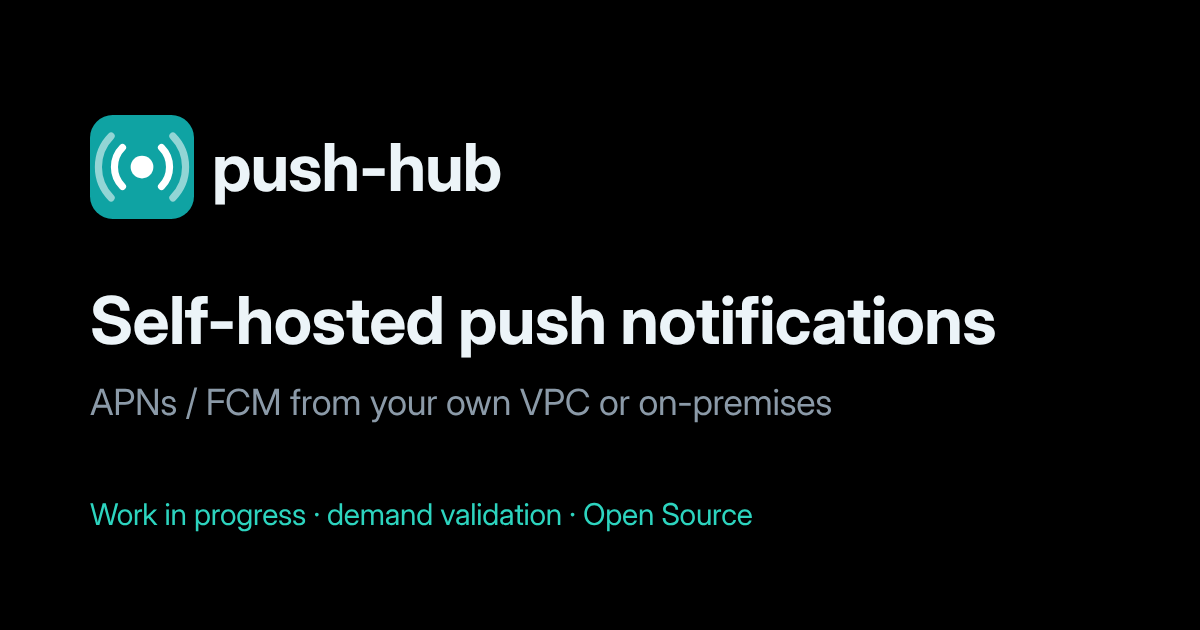
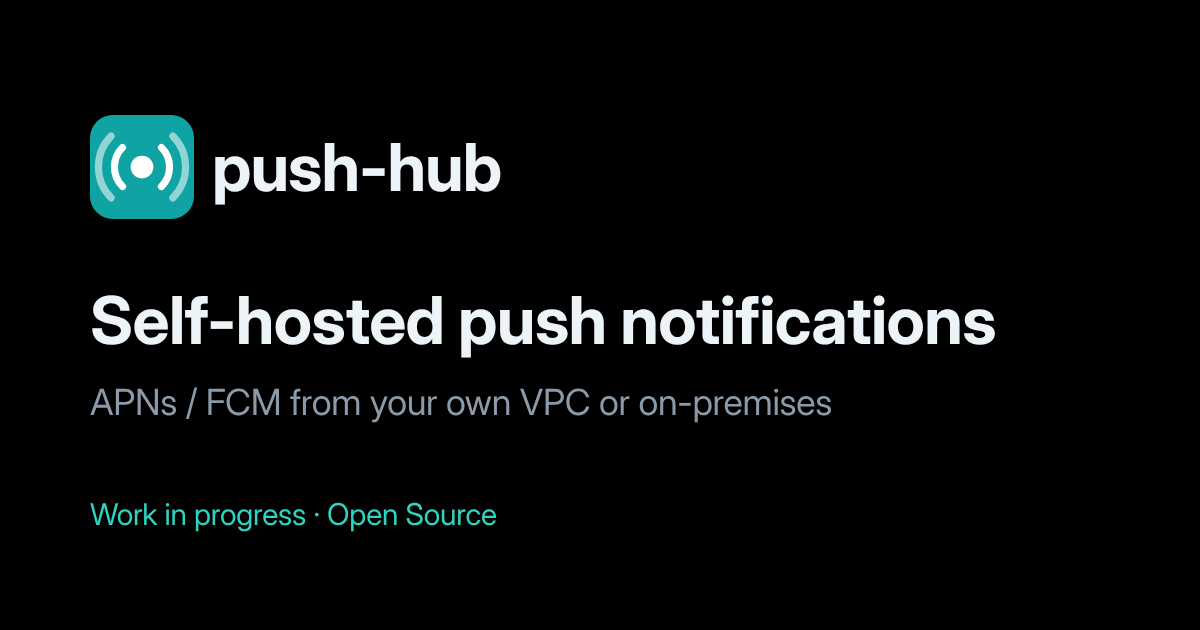
docs: build first, drop the survey and demand-validation wording
Remove the survey from the README and both landing pages and keep
the GitHub star as the only call to action. Replace the "Demand
Validation First" approach in the PRD and ARCHITECTURE with building
a minimal version first, and update the status badge and the social
preview image.

Claude-Session: https://claude.ai/code/session_01FAZyE7x5DZY6sv37JpwjM2

Changed region(s): [[0.2775, 0.7841, 0.6475, 0.8444]]

diff --git a/lp/ja/index.html b/lp/ja/index.html
@@ -41,12 +41,11 @@
 
   <main id="top">
     <div class="container hero">
-      <p class="badge"><span class="dot" aria-hidden="true"></span>開発中 · 需要検証フェーズ · オープンソース</p>
+      <p class="badge"><span class="dot" aria-hidden="true"></span>開発中 · オープンソース</p>
       <h1>プッシュ通知のデータを、自社インフラの外に出さない。</h1>
       <p class="lead">push-hub は企業向けのセルフホスト型プッシュ通知配信エンジンです。自社の VPC やオンプレミスにデプロイし、データを SaaS 事業者に渡さずに APNs / FCM 通知を送信できます。</p>
       <div class="cta">
         <a class="btn btn-primary" href="https://github.com/aianchor-lab/push-hub">⭐ GitHub で Star する</a>
-        <a class="btn" href="https://docs.google.com/forms/d/e/1FAIpQLScaWnj02ZwheyQqbRJ1FOz39VrACn_9ItWhEOD-ZxtPUcXEgg/viewform?usp=dialog">📝 3分アンケートに回答する</a>
       </div>
     </div>
 
@@ -218,8 +217,8 @@ $ curl http://localhost:8080/healthz
     <section id="support" class="final" aria-labelledby="support-title">
       <div class="container">
         <p class="eyebrow">プロジェクトを応援する</p>
-        <h2 id="support-title">作るかどうかは、あなたに必要とされるかどうかで決まります。</h2>
-        <p class="section-lead">特に、次のようなチームの声を聞きたいと考えています。</p>
+        <h2 id="support-title">必要だと感じたら、Star で教えてください。</h2>
+        <p class="section-lead">push-hub は開発中です。Star の数は、どれだけのチームに必要とされているかを知る手がかりになります。Star すると進捗も追えます。次のようなチームのために作っています。</p>
         <ul>
           <li>コンプライアンスや契約上の理由で、顧客データやデバイストークンをプッシュ SaaS に送れない</li>
           <li>配信数が増えるほどプッシュ SaaS の利用料が高額になっている</li>
@@ -227,9 +226,7 @@ $ curl http://localhost:8080/healthz
         </ul>
         <div class="cta">
           <a class="btn btn-primary" href="https://github.com/aianchor-lab/push-hub">⭐ GitHub で Star する</a>
-          <a class="btn" href="https://docs.google.com/forms/d/e/1FAIpQLScaWnj02ZwheyQqbRJ1FOz39VrACn_9ItWhEOD-ZxtPUcXEgg/viewform?usp=dialog">📝 3分アンケートに回答する</a>
         </div>
-        <p class="fine">アンケートの回答は push-hub の需要評価にのみ使用します。連絡先を記入して希望された場合を除き、こちらから連絡することはありません。</p>
         <p class="fine">GitHub の issue やご質問への対応はベストエフォートです。返信、修正、対応時期は保証しておらず、サポート SLA もありません。</p>
       </div>
     </section>

diff --git a/lp/index.html b/lp/index.html
@@ -41,12 +41,11 @@
 
   <main id="top">
     <div class="container hero">
-      <p class="badge"><span class="dot" aria-hidden="true"></span>Work in progress · demand validation · Open Source</p>
+      <p class="badge"><span class="dot" aria-hidden="true"></span>Work in progress · Open Source</p>
       <h1>Push notifications that never leave your infrastructure.</h1>
       <p class="lead">push-hub is a self-hosted push notification delivery engine for enterprises. Deploy it inside your own VPC or on-premises, and send APNs / FCM notifications without handing your data to a SaaS provider.</p>
       <div class="cta">
         <a class="btn btn-primary" href="https://github.com/aianchor-lab/push-hub">⭐ Star on GitHub</a>
-        <a class="btn" href="https://docs.google.com/forms/d/e/1FAIpQLSfy40dCmbFtYYkesl8lL9IoW6KyR2qLuC6Wm4MJOnWRVuYOQQ/viewform?usp=dialog">📝 Take the 3-minute survey</a>
       </div>
     </div>
 
@@ -218,8 +217,8 @@ $ curl http://localhost:8080/healthz
     <section id="support" class="final" aria-labelledby="support-title">
       <div class="container">
         <p class="eyebrow">Support the project</p>
-        <h2 id="support-title">Whether we build it depends on whether you need it.</h2>
-        <p class="section-lead">We especially want to hear from teams that:</p>
+        <h2 id="support-title">Need this? Star the repository.</h2>
+        <p class="section-lead">push-hub is under development. Stars show us how many teams need it, and starring lets you follow progress. It is built for teams that:</p>
         <ul>
           <li>cannot send customer data or device tokens to a push SaaS for compliance or contractual reasons,</li>
           <li>are paying a growing "SaaS Tax" on push delivery volume, or</li>
@@ -227,9 +226,7 @@ $ curl http://localhost:8080/healthz
         </ul>
         <div class="cta">
           <a class="btn btn-primary" href="https://github.com/aianchor-lab/push-hub">⭐ Star on GitHub</a>
-          <a class="btn" href="https://docs.google.com/forms/d/e/1FAIpQLSfy40dCmbFtYYkesl8lL9IoW6KyR2qLuC6Wm4MJOnWRVuYOQQ/viewform?usp=dialog">📝 Take the 3-minute survey</a>
         </div>
-        <p class="fine">Survey answers are used only to evaluate demand for push-hub. We will not contact you unless you leave contact details and ask us to.</p>
         <p class="fine">GitHub issues and questions are handled on a best-effort basis. Replies, fixes, and response times are not guaranteed, and there is no support SLA.</p>
       </div>
     </section>

diff --git a/README.md b/README.md
@@ -2,8 +2,8 @@
 
 A self-hosted push notification delivery engine for enterprises. Deploy it inside your own VPC or on-premises, and send APNs / FCM notifications without handing your data to a SaaS provider.
 
-> **Status: Work in progress — demand validation.**
-> push-hub is in the demand validation phase. There is no production code yet, and the scope described here may change. push-hub is **Open Source** under the [Apache License 2.0](LICENSE).
+> **Status: Work in progress.**
+> push-hub is under development. There is no production code yet, and the scope described here may change. push-hub is **Open Source** under the [Apache License 2.0](LICENSE).
 
 ## The Problem
 
@@ -264,22 +264,19 @@ Example log line:
 {"ts":"2026-11-05T12:00:02Z","level":"info","msg":"notification delivered","message_id":"msg_01JC8Z6A1B2C3D4E5F6G7H8J9K","platform":"ios","request_id":"req_01JC8Z7M9N0P1Q2R3S4T5U6V7W"}
 ```
 
-Metric names and log fields are not final. If you need specific metrics or integrations, let us know in an [issue](https://github.com/aianchor-lab/push-hub/issues) or the [survey](#support-the-project).
+Metric names and log fields are not final. If you need specific metrics or integrations, let us know in an [issue](https://github.com/aianchor-lab/push-hub/issues).
 
 ## Support the Project
 
-push-hub is in the demand validation phase: whether we build it depends on whether enough teams actually need it. You can help in two ways.
+push-hub is under development. If your team needs self-hosted push delivery, please **⭐ star this repository**. Stars show us how many teams need it, and starring lets you follow progress.
 
-* **⭐ Star this repository.** Stars are one of the signals we use to decide whether to start production development. Starring also lets you follow progress.
-* **📝 Answer the [3-minute survey](https://docs.google.com/forms/d/e/1FAIpQLSfy40dCmbFtYYkesl8lL9IoW6KyR2qLuC6Wm4MJOnWRVuYOQQ/viewform?usp=dialog).** Tell us how you send push notifications today and what is holding you back.
-
-We especially want to hear from teams that:
+push-hub is built for teams that:
 
 * cannot send customer data or device tokens to a push SaaS for compliance or contractual reasons,
 * are paying a growing "SaaS Tax" on push delivery volume, or
 * need to run push delivery on-premises or in an air-gapped environment.
 
-Survey answers are used only to evaluate demand for push-hub. We will not contact you unless you leave contact details and ask us to.
+If you have a specific requirement, tell us in an [issue](https://github.com/aianchor-lab/push-hub/issues).
 
 Project announcements are posted on X: [@pushhub_dev](https://x.com/pushhub_dev).
 

diff --git a/docs/PRD.md b/docs/PRD.md
@@ -1,9 +1,9 @@
 # Product Requirements Document (PRD)
 
 > **Status:** Draft
-> **Last updated:** 2026-11-12
+> **Last updated:** 2026-11-13
 >
-> This document is a working draft. Its contents, including licensing and scope, may change based on the results of demand validation. Undecided items are marked **TBD** and tracked in [Open Questions](#5-open-questions).
+> This document is a working draft. Its contents, including licensing and scope, may change as development proceeds and feedback arrives. Undecided items are marked **TBD** and tracked in [Open Questions](#5-open-questions).
 
 ## 1. Project Overview
 
@@ -13,7 +13,7 @@
 
 * **Vision:** Provide a robust, lightweight push delivery platform that can be deployed with a single command inside a company's own infrastructure (VPC / on-premises), for companies struggling with the high cost (pay-per-use pricing) and the data governance / regional constraints of SaaS-based push delivery services.
 
-* **Approach:** Strictly follow a **"Demand Validation First"** approach: evaluate demand before seriously writing production code.
+* **Approach:** Build a minimal working version first (immediate delivery, device registration, bounce handling), then promote it and learn from real usage. Until then, interest is gauged by GitHub stars and issues.
 
 * **Support:** Best-effort, with no SLA. See the [Support Policy](../README.md#support-policy).
 
@@ -126,3 +126,4 @@ The following items are undecided and will be updated in this document once deci
 | 2026-11-08 | Raise the Small Business revenue limit to US$10M; state that replies to issues and questions are not guaranteed; move operating and commercial notes out of this document |
 | 2026-11-09 | Add project continuity commitments (README) and related open question |
 | 2026-11-12 | Change the license from BSL 1.1 to Apache License 2.0; keep the CLA; simplify the continuity commitments |
+| 2026-11-13 | Replace the "Demand Validation First" approach with building a minimal version first; drop the survey |

diff --git a/docs/ARCHITECTURE.md b/docs/ARCHITECTURE.md
@@ -1,9 +1,9 @@
 # Architecture
 
 > **Status:** Draft
-> **Last updated:** 2026-11-06
+> **Last updated:** 2026-11-13
 >
-> This document is a working draft of the architecture direction for push-hub. No production code exists yet, and the design may change based on the results of demand validation. Undecided items are marked **TBD** and tracked in [Open Questions](#9-open-questions). For product goals and licensing, see the [PRD](PRD.md).
+> This document is a working draft of the architecture direction for push-hub. No production code exists yet, and the design may change during development. Undecided items are marked **TBD** and tracked in [Open Questions](#9-open-questions). For product goals and licensing, see the [PRD](PRD.md).
 
 ## 1. Design Principles
 
@@ -77,7 +77,7 @@ The same container image is used for every role. On Kubernetes, each role runs a
 
 ## 4. Roadmap Priority
 
-Demand validation comes first. Features are built in this order:
+Features are built in this order:
 
 1. **MVP:** immediate delivery, device registration, bounce handling
 2. Scheduled delivery and delivery analytics

diff --git a/lp/README.md b/lp/README.md
@@ -1,6 +1,6 @@
 # push-hub landing page
 
-Pre-launch landing page for push-hub, used for demand validation. Plain static HTML and CSS: no build step, no JavaScript, no external fonts or trackers.
+Pre-launch landing page for push-hub. Plain static HTML and CSS: no build step, no JavaScript, no external fonts or trackers.
 
 ```text
 lp/
